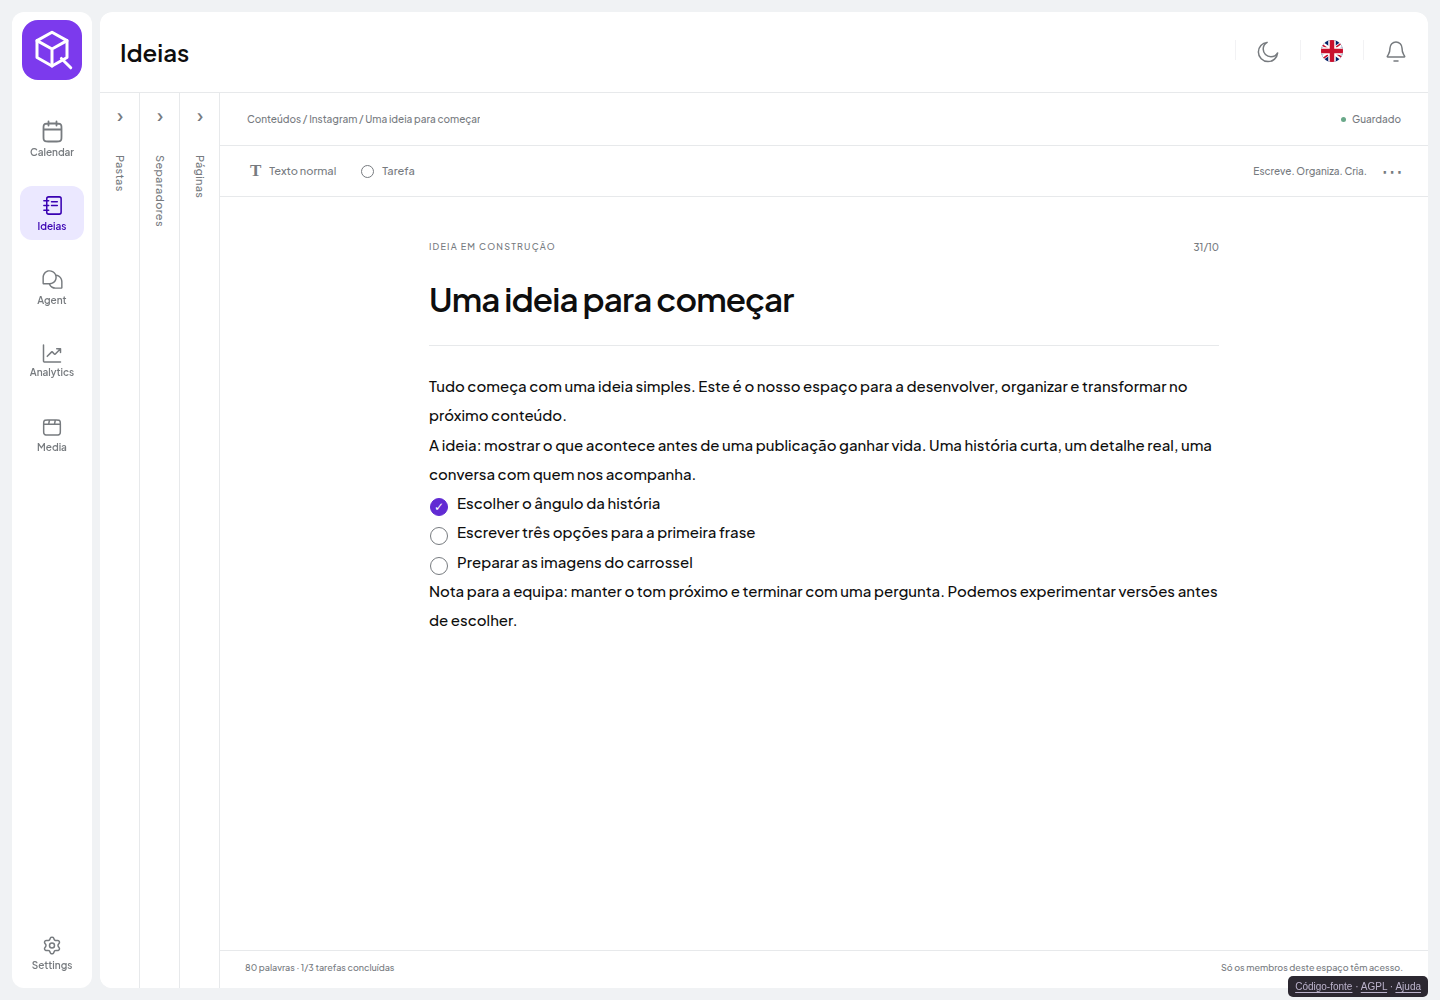
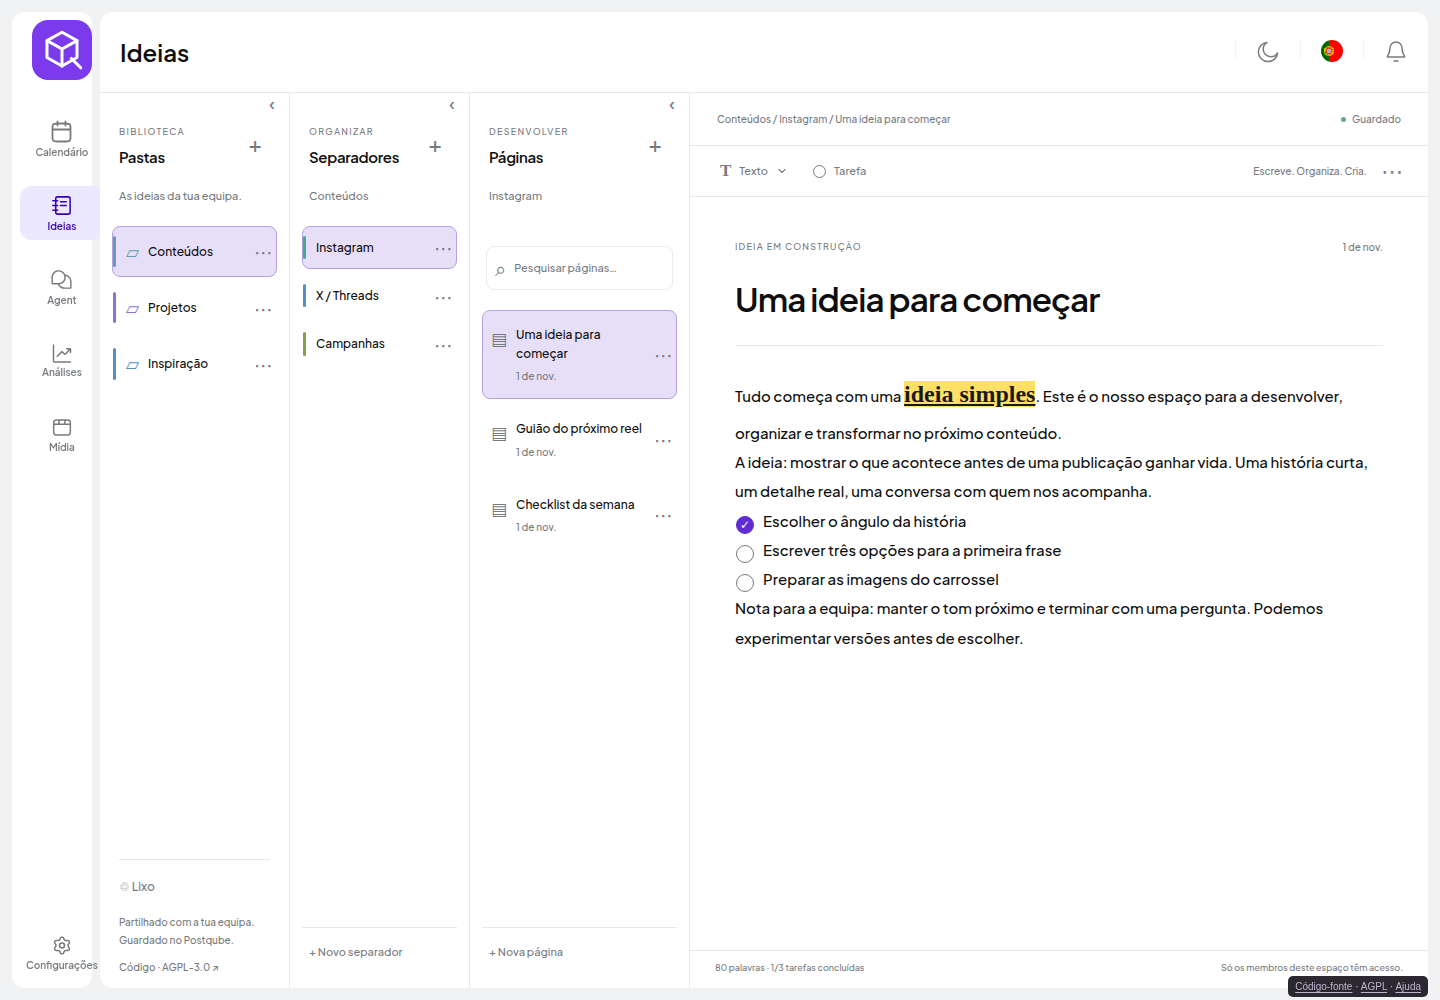
Record validated 0.4 beta runtime and native Ideas screenshots

diff --git a/docs/postqube/RELEASE-0.4.md b/docs/postqube/RELEASE-0.4.md
@@ -1,0 +1,31 @@
+# Postqube 0.4.0 beta 1 — Ideas formatting and languages
+
+Ideas now responds to the same language selector as the rest of the app. Its menu,
+workspace, dates, save states, dialogs and text controls use native i18next resources
+for all 14 supported languages. User notes remain unchanged.
+
+Folders and sections have thin colored accents. The Text menu adds fonts, size,
+bold, italic, underline, strike, highlight, text color, clear formatting and undo/redo.
+Structured text runs persist in existing native PostgreSQL note records. No extra
+service or schema migration is required.
+
+## Validation
+
+- Eight regression tests passed; the complete native frontend/backend build and
+  route type checking passed on the VPS and in GitHub Actions.
+- Browser tests selected all 14 languages through the real language modal. Menu,
+  columns and Text labels changed without reloading or replacing the editor.
+- Calendar ↔ Ideas preserved the same document, header and sidebar.
+- Size changes preserved font/emphasis/highlight; undo/redo, autosave and reopening
+  retained formatting. Task insertion at the caret preserved the surrounding text.
+- Desktop and mobile at 360/390px, native light/dark themes and dropdown bounds
+  were visually inspected. Screenshots contain disposable demonstration content.
+- Native API validation rejected unsupported fonts, CSS URL values and mismatched
+  formatted text. Existing native authorization/workspace boundaries remain in use.
+- Protected database archives and their hashes were verified; native backups include
+  the Ideas table and data. This is not a claim of a full off-server restore drill.
+- Disposable accounts and test notes were removed after testing.
+
+[Changes and checks](https://github.com/drdrey7/postqube/pull/4) ·
+[Native build check](https://github.com/drdrey7/postqube/actions/runs/41274578981) ·
+[Ideas guide](IDEAS.md) · [Release metadata](../../postqube/release.json)

diff --git a/docs/postqube/IDEAS.md b/docs/postqube/IDEAS.md
@@ -8,7 +8,7 @@ light/dark, language and notification controls remain native.
 
 ![Ideas desktop in a disposable demonstration workspace](assets/ideas-desktop.png)
 
-![Light theme with minimized organizing columns](assets/ideas-light-collapsed.png)
+![Native light theme](assets/ideas-light-collapsed.png)
 
 ![Mobile notes](assets/ideas-mobile.png)
 
@@ -27,6 +27,8 @@ the current task marker without deleting text. Paste inserts plain text and pres
 line breaks. Text and marker insertion use the browser undo/redo history.
 
 ## Native formatting and language
+
+![Native text formatting controls](assets/ideas-formatting.png)
 
 Folders and sections have thin, stable colored accents. The Text menu provides
 font family, size, bold, italic, underline, strikethrough, highlighting, text color,
@@ -82,3 +84,5 @@ Native PostgreSQL backups now cover Ideas. Restore and test the native database
 alongside the matching image/source version. Legacy snapshots still follow the
 operator's retention/deletion policy. Before commercial launch, verify the complete
 shared-workspace deletion/export/backup lifecycle and off-server recovery drill.
+
+[0.4 beta release validation](RELEASE-0.4.md)
